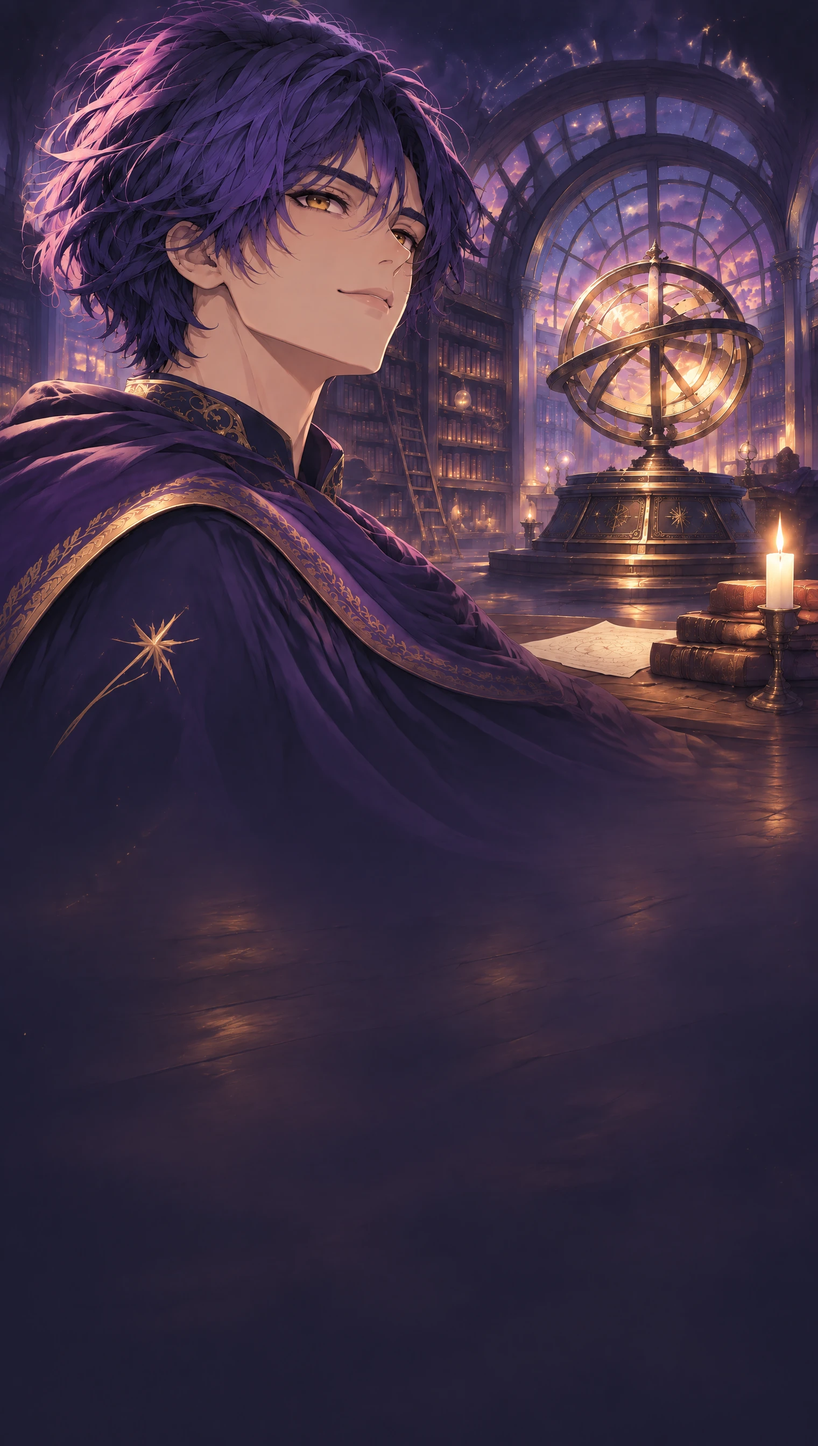
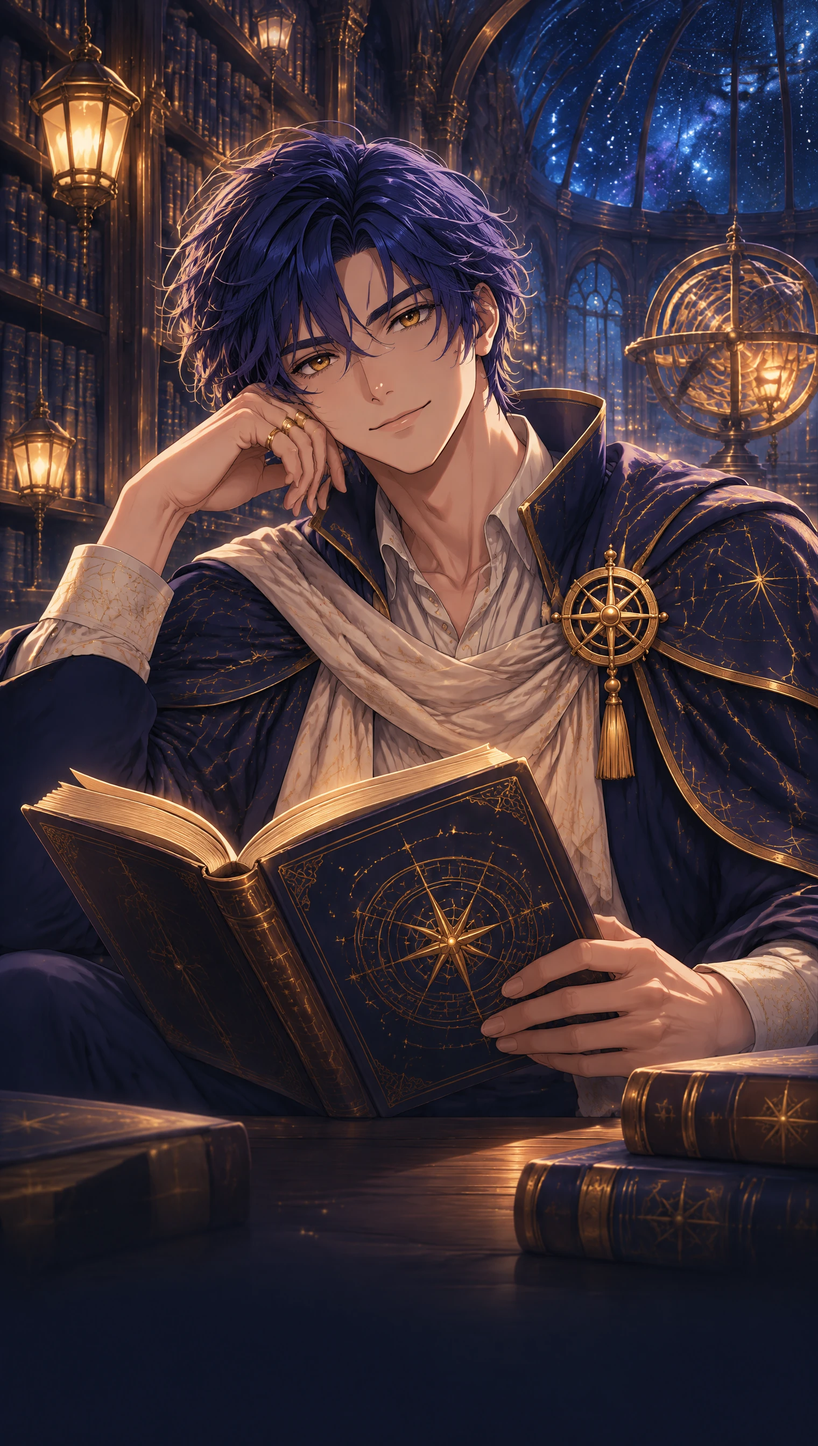
A11: Orion en azul noche y oro con su vestuario canónico; Nova con su dragón plateado
Claude-Session: https://claude.ai/code/session_01CL7wg269cKFeX8NUniz13e

diff --git a/kura/a01/styles.css b/kura/a01/styles.css
@@ -968,27 +968,28 @@ button, input { font: inherit; color: inherit; }
 .guia-card[data-guia="azara"] .guia-contempla b::after { content: ' ·'; }
 .guia-card[data-guia="azara"] .guia-start { font-style: italic; font-weight: 500; font-size: 6cqw; border-color: rgba(255, 196, 180, .7); background: linear-gradient(180deg, rgba(150, 30, 52, .7), rgba(100, 16, 34, .75)); box-shadow: 0 0 5cqw rgba(220, 70, 90, .35), inset 0 0 3cqw rgba(255, 180, 180, .18); }
 
-/* ---- Orion · biblioteca filosófica onírica ---- */
-.guia-card[data-guia="orion"] { --g-ink: #f6eedd; --g-soft: rgba(240, 228, 206, .78); --g-acc: 236, 200, 140; --g-line: rgba(236, 210, 170, .3); --g-glass: rgba(46, 30, 82, .5);
-  --g-title: 'Cormorant', Georgia, serif; --g-body: 'Cormorant', Georgia, serif; background: #171030; }
-.guia-card[data-guia="orion"] .guia-velo { background: linear-gradient(180deg, rgba(20, 12, 42, 0) 40%, rgba(28, 18, 56, .8) 57%, rgba(24, 16, 48, .95) 70%, #171030 100%); }
-.guia-card[data-guia="orion"] .guia-titulo { font-weight: 600; font-size: 8.2cqw; line-height: 1.1; text-align: center; }
-.guia-card[data-guia="orion"] .guia-lista .gi { font-size: 4.9cqw; font-weight: 500; padding: 3.6cqw 0; }
-.guia-card[data-guia="orion"] .guia-contempla { justify-content: center; font-size: 3.9cqw; font-weight: 500; }
+/* ---- Orion · biblioteca observatorio, azul noche y oro (como sus pantallas: título a la izquierda con trazo dorado,
+   cada función en su propia barra de cristal oscuro con icono dorado) ---- */
+.guia-card[data-guia="orion"] { --g-ink: #f2e8d5; --g-soft: rgba(242, 232, 213, .74); --g-acc: 214, 164, 91; --g-line: rgba(242, 232, 213, .2); --g-glass: rgba(14, 24, 44, .58);
+  --g-title: 'Cormorant', Georgia, serif; --g-body: 'Cormorant', Georgia, serif; background: #0b1426; border-color: rgba(214, 164, 91, .4); }
+.guia-card[data-guia="orion"] .guia-velo { background: linear-gradient(180deg, rgba(8, 14, 30, 0) 36%, rgba(10, 18, 36, .72) 52%, rgba(10, 17, 34, .93) 66%, #0b1426 100%); }
+.gh-orion { position: relative; margin: 0 0 4.2cqw; font: 500 6.4cqw/1 var(--g-title); color: var(--g-ink); }
+.gh-orion::after { content: ''; position: absolute; left: 0; bottom: -2.2cqw; width: 14cqw; height: 1.2cqw; border-radius: 50%;
+  background: radial-gradient(ellipse at 30% 50%, #f3cf8a, #d6a45b 45%, rgba(214, 164, 91, 0) 72%); }
+.guia-card[data-guia="orion"] .guia-titulo { font-weight: 600; font-size: 9cqw; line-height: 1.05; text-align: left; text-shadow: 0 .4cqw 3cqw rgba(4, 8, 20, .8); }
+.guia-filas { display: flex; flex-direction: column; gap: 2.4cqw; margin-top: 4.4cqw; }
+.guia-filas .gi { padding: 2.6cqw 3.6cqw; gap: 3.4cqw; border-radius: 4.4cqw; border: 1px solid var(--g-line); background: var(--g-glass);
+  backdrop-filter: blur(8px); -webkit-backdrop-filter: blur(8px); box-shadow: inset 0 0 3cqw rgba(242, 232, 213, .05); font-size: 5.4cqw; font-weight: 600; line-height: 1.1; }
+.guia-filas .gi-ico { width: 8cqw; height: 8cqw; stroke: #d6a45b; stroke-width: 1.3; }
+.guia-filas .gi-dato { margin-top: .5cqw; font-size: 3.6cqw; font-weight: 500; font-style: italic; letter-spacing: 0; color: var(--g-soft); }
+.guia-filas .gi-chev { width: 4.4cqw; height: 4.4cqw; color: var(--g-ink); }
+.guia-card[data-guia="orion"] .guia-contempla { border-radius: 4.4cqw; font-size: 4cqw; font-weight: 500; }
+.guia-card[data-guia="orion"] .guia-contempla .gi-ico { stroke: #d6a45b; }
 .guia-card[data-guia="orion"] .gc-sep { display: none; }
 .guia-card[data-guia="orion"] .guia-contempla b::after { content: ' ·'; }
-.guia-card[data-guia="orion"] .guia-start { font-style: italic; font-weight: 500; font-size: 6cqw; border-color: rgba(236, 200, 140, .75); background: linear-gradient(180deg, rgba(110, 70, 170, .55), rgba(70, 40, 120, .6)); box-shadow: 0 0 5cqw rgba(236, 190, 120, .3), inset 0 0 3cqw rgba(200, 160, 255, .2); }
-
-/* Orion: cada función escrita en un libro abierto (ilustración de Higgsfield; texto real en tinta sobre las páginas) */
-.guia-libros { display: grid; grid-template-columns: 1fr 1fr; gap: 2.4cqw; margin-top: 3cqw; }
-.gl { position: relative; aspect-ratio: 640 / 408; filter: drop-shadow(0 1.6cqw 2.6cqw rgba(8, 4, 24, .6)) drop-shadow(0 0 3cqw rgba(255, 200, 120, .22)); }
-.gl-libro { position: absolute; inset: 0; width: 100%; height: 100%; }
-.gl-pag { position: absolute; top: 14%; bottom: 25%; display: flex; flex-direction: column; justify-content: center; text-align: center; color: #4a2c52;
-  font-family: var(--g-body); font-weight: 600; line-height: 1.12; }
-.gl-izq { left: 13%; right: 53%; align-items: center; gap: .8cqw; font-size: 3cqw; }
-.gl-izq .gi-ico { width: 4.6cqw; height: 4.6cqw; stroke: #8a5a2c; stroke-width: 1.5; }
-.gl-izq b { font-weight: 600; }
-.gl-der { left: 53%; right: 13%; font-size: 2.6cqw; font-weight: 500; font-style: italic; color: #5a3c5e; }
+.guia-card[data-guia="orion"] .guia-start { font-weight: 600; font-size: 6cqw; border-color: rgba(214, 164, 91, .75); background: rgba(14, 24, 44, .7);
+  box-shadow: 0 0 5cqw rgba(214, 164, 91, .3), inset 0 0 3cqw rgba(214, 164, 91, .14); }
+.guia-card[data-guia="orion"] .guia-start .gi-chev, .guia-card[data-guia="orion"] .guia-nav { color: #f2e8d5; }
 
 /* ---- Nova · pop star de noche, minimalista, azul de ciudad ---- */
 .guia-card[data-guia="nova"] { --g-ink: #eef6ff; --g-soft: rgba(196, 220, 245, .74); --g-acc: 92, 200, 255; --g-line: rgba(120, 190, 255, .28); --g-glass: rgba(10, 22, 48, .55);

diff --git a/kura/a01/js/a11-guias.js b/kura/a01/js/a11-guias.js
@@ -25,6 +25,7 @@ const I = {
   pin: '<path d="M12 21s6.5-6 6.5-11a6.5 6.5 0 0 0-13 0c0 5 6.5 11 6.5 11Z"/><circle cx="12" cy="10" r="2.4"/>',
   escudo: '<path d="M12 3.2 19 6v5.4c0 4.6-3 8-7 9.4-4-1.4-7-4.8-7-9.4V6l7-2.8Z"/><path d="m8.8 12 2.2 2.2 4.4-4.4"/>',
   corazon: '<path d="M12 20S3.5 14.8 3.5 9A4.4 4.4 0 0 1 12 6.8 4.4 4.4 0 0 1 20.5 9C20.5 14.8 12 20 12 20Z"/>',
+  laurel: '<path d="M12 21v-6M8.2 19.4C5 17.8 3.4 14.6 3.8 10.6M15.8 19.4c3.2-1.6 4.8-4.8 4.4-8.8"/><path d="M5.6 16.2c-1.6-.2-2.6-1.2-3-2.6 1.6-.2 2.8.6 3 2.6ZM4.4 12.6c-1.4-.6-2-1.8-2-3.2 1.4.2 2.4 1.2 2 3.2ZM4.6 9c-1-.9-1.2-2.2-.8-3.4 1.2.6 1.8 1.8.8 3.4ZM18.4 16.2c1.6-.2 2.6-1.2 3-2.6-1.6-.2-2.8.6-3 2.6ZM19.6 12.6c1.4-.6 2-1.8 2-3.2-1.4.2-2.4 1.2-2 3.2ZM19.4 9c1-.9 1.2-2.2.8-3.4-1.2.6-1.8 1.8-.8 3.4Z"/>',
   brujula: '<circle cx="12" cy="12" r="8.5"/><path d="m15.6 8.4-2 5.2-5.2 2 2-5.2 5.2-2Z"/><path d="M12 3.5v1.6M12 18.9v1.6M3.5 12h1.6M18.9 12h1.6"/>',
   pluma: '<path d="M19.5 4.5c-6 .3-10.6 4.6-11.6 10.8l-1.4 1.4M19.5 4.5c-.3 6-4.6 10.6-10.8 11.6M19.5 4.5 9 15M4 20l2.5-3.3"/>',
   ojo: '<path d="M2.5 12S6 5.8 12 5.8 21.5 12 21.5 12 18 18.2 12 18.2 2.5 12 2.5 12Z"/><circle cx="12" cy="12" r="3"/>',
@@ -74,15 +75,15 @@ const GUIA = {
     },
   },
   orion: {
-    arte: 'assets/a11/guias/orion.webp', layout: 'libros', contemplaIco: 'ojo',
+    arte: 'assets/a11/guias/orion.webp', layout: 'filas', contemplaIco: 'ojo',
     es: {
       titulo: ['Tu camino filosófico.', 'Nunca dejes de aprender.'],
-      items: [['brujula', 'Corrientes filosóficas', 'Un camino para aprender de cada escuela'], ['pluma', 'Frases célebres', 'De estoicos, poetas y más']],
+      items: [['laurel', 'Corrientes filosóficas', 'Un camino para aprender de cada escuela'], ['pluma', 'Frases célebres', 'De estoicos, poetas y más']],
       mundo: 'su biblioteca observatorio',
     },
     en: {
       titulo: ['Your philosophical path.', 'Never stop learning.'],
-      items: [['brujula', 'Schools of philosophy', 'A path to learn from each school'], ['pluma', 'Famous quotes', 'From Stoics, poets and more']],
+      items: [['laurel', 'Schools of philosophy', 'A path to learn from each school'], ['pluma', 'Famous quotes', 'From Stoics, poets and more']],
       mundo: 'his observatory library',
     },
   },
@@ -101,10 +102,9 @@ const CHEV = '<svg class="gi-chev" viewBox="0 0 24 24" aria-hidden="true"><path 
 function heading(id, nombre, T) {
   if (id === 'amaya') return `<div class="gh-amaya"><h2 class="gh-nombre" id="guia-nombre">${esc(nombre)}</h2><p class="gh-sello">${esc(T.sello)}</p></div>`;
   if (id === 'nova') return `<h2 class="gh-tag" id="guia-nombre"><i aria-hidden="true">/</i>${esc(nombre)}</h2>`;
+  if (id === 'orion') return `<h2 class="gh-orion" id="guia-nombre">${esc(nombre)}</h2>`;
   return `<h2 class="gh-tag" id="guia-nombre"><i aria-hidden="true"></i>${esc(nombre)}<i aria-hidden="true"></i></h2>`;
 }
-// Orion: cada función escrita en las páginas de un libro abierto (izquierda: icono y título; derecha: detalle)
-const libro = ([k, titulo, detalle]) => `<li class="gl"><img class="gl-libro" src="assets/a11/guias/libro.webp" alt="" decoding="async" draggable="false"><span class="gl-pag gl-izq">${icon(k)}<b>${esc(titulo)}</b></span><span class="gl-pag gl-der">${esc(detalle)}</span></li>`;
 function item([k, txt, dato]) {
   // el anillo de agua (6 de 8 vasos) ocupa el lugar del icono; los demás datos van bajo el texto
   const lead = dato === 'anillo' ? `<span class="gi-anillo" aria-hidden="true">${icon(k)}<b>6/8</b></span>` : icon(k);
@@ -132,7 +132,7 @@ export function guidePreview({ guias, lang, sfx, onStart, reduced }) {
         ${heading(id, g.nombre, T)}
         <p class="guia-titulo">${T.titulo.map((l) => `<span>${esc(l)}</span>`).join('')}</p>
         ${T.sub ? `<p class="guia-sub">${esc(T.sub)}</p>` : ''}
-        <ul class="guia-items guia-${G.layout}">${T.items.map(G.layout === 'libros' ? libro : item).join('')}</ul>
+        <ul class="guia-items guia-${G.layout}">${T.items.map(item).join('')}</ul>
         <p class="guia-contempla">${icon(G.contemplaIco)}<span><b>${U.contempla}</b> <span class="gc-sep">—</span> ${esc(T.mundo)}</span></p>
         ${T.aviso ? `<p class="guia-aviso" role="note">${esc(T.aviso)}</p>` : ''}
       </div>
@@ -161,7 +161,7 @@ export function guidePreview({ guias, lang, sfx, onStart, reduced }) {
   function close() { if (dlg.open) dlg.close(); }
 
   // precarga silenciosa de las cuatro ilustraciones (al pasar de una a otra no hay parpadeo)
-  const pre = () => [...Object.values(GUIA).map((G) => G.arte), 'assets/a11/guias/libro.webp'].forEach((src) => { const im = new Image(); im.decoding = 'async'; im.src = src; });
+  const pre = () => Object.values(GUIA).forEach((G) => { const im = new Image(); im.decoding = 'async'; im.src = G.arte; });
 
   dlg.addEventListener('close', () => { current = null; opener?.focus?.({ preventScroll: true }); opener = null; });
   dlg.addEventListener('click', (e) => { if (e.target === dlg) { sfx('tap'); close(); } }); // tocar fuera la cierra

diff --git a/kura/a01/README.md b/kura/a01/README.md
@@ -126,7 +126,7 @@ Se entra con «Continuar» u «Omitir» en A10; también con `#a11`. **Escenario
 - **Paralaje** con cursor o giroscopio: templo y cielo al fondo, Alaira en medio, glicinas y pétalos delante, el HUD encima, y dentro de cada banner el mundo se desliza un poco (ventana con profundidad).
 - **Título** según la identidad elegida en A09: «¿Lista para / KURA?» (mujer), «¿Listo para / KURA?» (hombre) y «¿Todo listo / para KURA?» (otra identidad, prefiero no decirlo o sin respuesta). En inglés siempre «Ready for / KURA?». Arriba «Tu viaje comienza» · «Your journey begins» y abajo «Ellos también te esperan.» · «They’re waiting for you too.».
 - **Banners** de Amaya (ciudad aérea de cristal y jardines), Azara (castillo carmesí imponente, con vitrales y cristales de rubí), Nova (noche pop star en azul oscuro, con flashes) y Orion (biblioteca observatorio con esfera armilar), en HD (`assets/a11/banners/`, 1400 × 600). El nombre y la flecha van en texto real (nítido y traducible). Tocar un banner hace destellar el dedo de Alaira y abre su **vista previa** (`js/a11-guias.js`).
-- **Vista previa del guía** (diseños aprobados, hechos con Higgsfield): ficha del mismo tamaño para los cuatro (9 : 16, todo medido en `cqw`), con la ilustración de su mundo a sangre (`assets/a11/guias/`, HD en `kura/diseno/A11/guias/`) y un HUD con el estilo de cada mundo: **Amaya** aero (cristal claro, menta y cielo, título ancho en Michroma con «Cuerpo · Cuidado · Descanso», mosaicos con datos de ejemplo y el aviso de consultar siempre al médico), **Azara** carmesí rubí sobrio (Cormorant marfil, lista en cristal guinda), **Nova** pop star de noche minimalista (Outfit delgada, azul de ciudad, ocho mosaicos) y **Orion** biblioteca filosófica (Cormorant crema, cristal violeta). Todos con su **modo contemplación**. Se pasa de un guía a otro con las flechas, deslizando o con ← →; se cierra con la X, tocando fuera, Esc o al cambiar de pantalla. «Empezar con …» deja anotado por quién empezar el tour (`localStorage`, clave `kura.tourInicio`). Español e inglés. Letras: Cormorant Garamond, Outfit y Michroma (OFL, en `assets/fonts/`).
+- **Vista previa del guía** (diseños aprobados, hechos con Higgsfield): ficha del mismo tamaño para los cuatro (9 : 16, todo medido en `cqw`), con la ilustración de su mundo a sangre (`assets/a11/guias/`, HD en `kura/diseno/A11/guias/`) y un HUD con el estilo de cada mundo: **Amaya** aero (cristal claro, menta y cielo, título ancho en Michroma con «Cuerpo · Cuidado · Descanso», mosaicos con datos de ejemplo y el aviso de consultar siempre al médico), **Azara** carmesí rubí sobrio (Cormorant marfil, lista en cristal guinda), **Nova** pop star de noche minimalista (Outfit delgada, azul de ciudad, ocho mosaicos; collar del dragón plateado) y **Orion** biblioteca observatorio en azul noche y oro, con su vestuario canónico (Cormorant marfil, título a la izquierda con trazo dorado, cada función en su propia barra de cristal). Todos con su **modo contemplación**. Se pasa de un guía a otro con las flechas, deslizando o con ← →; se cierra con la X, tocando fuera, Esc o al cambiar de pantalla. «Empezar con …» deja anotado por quién empezar el tour (`localStorage`, clave `kura.tourInicio`). Español e inglés. Letras: Cormorant Garamond, Outfit y Michroma (OFL, en `assets/fonts/`).
 - **Iniciar el tour** · **Start the tour** (sonido de inicio) y **Saltar** · **Skip**: por ahora muestran un aviso, hasta que existan el tour (A13–A17) y Hoy.
 - **Cabe sin scroll** en cualquier teléfono (probado de 375 × 629 a 430 × 932): en teléfonos altos los banners crecen; en los bajos suben sobre el barandal y se compactan.
 
